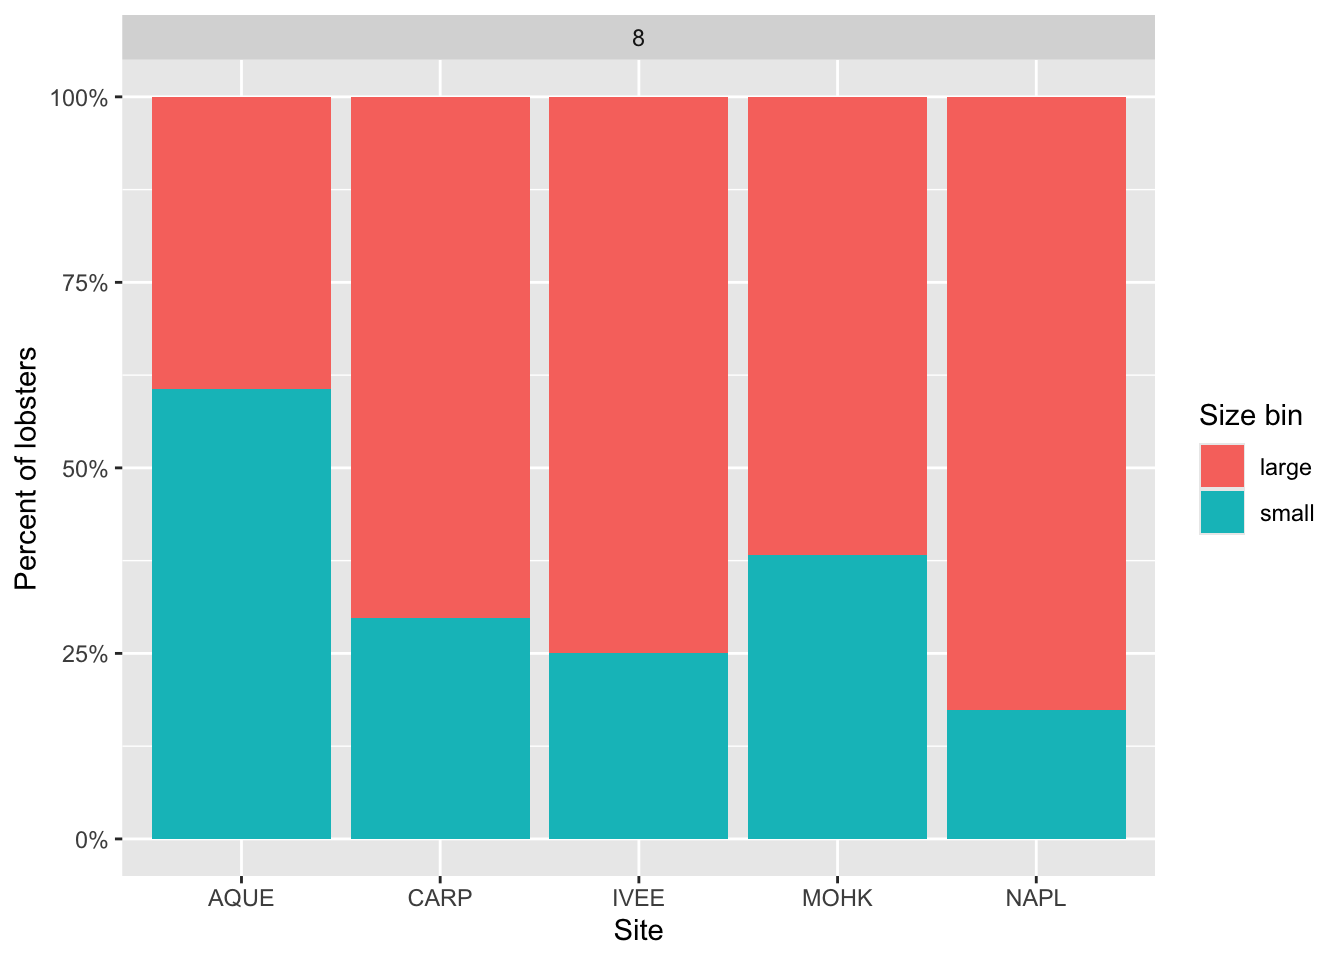
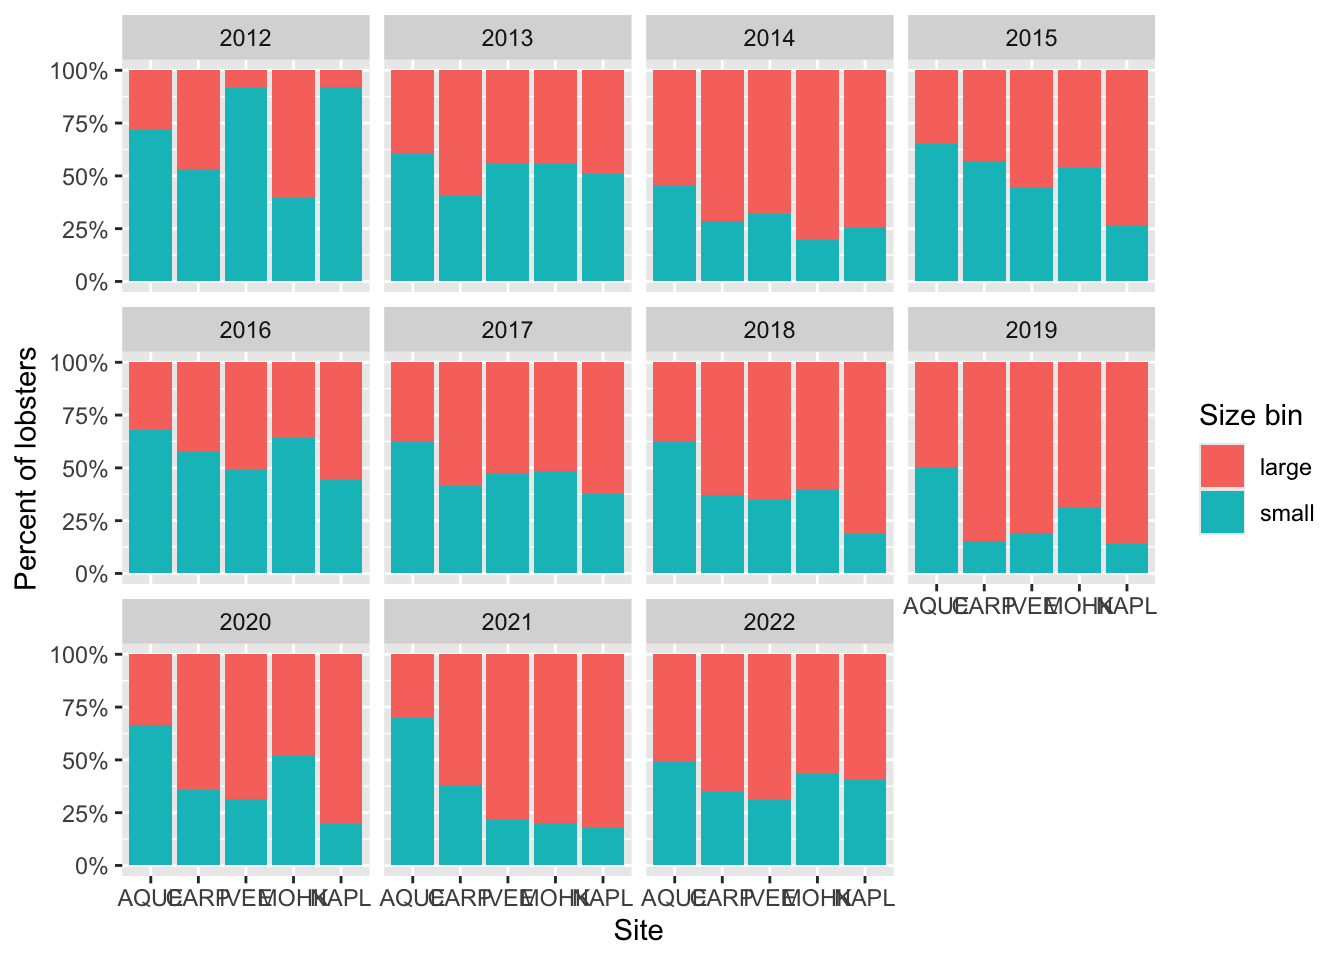
add new graphs

diff --git a/analysis/lobster-report.html b/analysis/lobster-report.html
@@ -87,7 +87,7 @@ pre > code.sourceCode > span > a:first-child::before { text-decoration: underlin
   <ul>
   <li><a href="#purpose" id="toc-purpose" class="nav-link active" data-scroll-target="#purpose">Purpose</a></li>
   <li><a href="#data-clean-up-quality-control" id="toc-data-clean-up-quality-control" class="nav-link" data-scroll-target="#data-clean-up-quality-control">Data clean up &amp; quality control</a></li>
-  <li><a href="#data-analysis" id="toc-data-analysis" class="nav-link" data-scroll-target="#data-analysis">Data analysis</a></li>
+  <li><a href="#data-analysis-for-abundance" id="toc-data-analysis-for-abundance" class="nav-link" data-scroll-target="#data-analysis-for-abundance">Data analysis for Abundance</a></li>
   </ul>
 </nav>
 </div>
@@ -171,8 +171,8 @@ date (1): DATE
 </div>
 </div>
 </section>
-<section id="data-analysis" class="level2">
-<h2 class="anchored" data-anchor-id="data-analysis">Data analysis</h2>
+<section id="data-analysis-for-abundance" class="level2">
+<h2 class="anchored" data-anchor-id="data-analysis-for-abundance">Data analysis for Abundance</h2>
 <p>I would like to visualize the percentage of all caught lobster based on size:</p>
 <div class="cell">
 <div class="code-copy-outer-scaffold"><div class="sourceCode cell-code" id="cb9"><pre class="sourceCode r code-with-copy"><code class="sourceCode r"><span id="cb9-1"><a href="#cb9-1" aria-hidden="true" tabindex="-1"></a><span class="co">#First identify our lobster classifications</span></span>
@@ -203,19 +203,21 @@ date (1): DATE
 <pre><code>Saving 7 x 5 in image</code></pre>
 </div>
 </div>
-<p>I would also like to view this same data by month. To do this, i would first need to refilter my object by month.<br>
+<p>I would also like to view this same data by year. To do this, i would first need to refilter my object by year.<br>
 </p>
 <div class="cell">
-<div class="code-copy-outer-scaffold"><div class="sourceCode cell-code" id="cb14"><pre class="sourceCode r code-with-copy"><code class="sourceCode r"><span id="cb14-1"><a href="#cb14-1" aria-hidden="true" tabindex="-1"></a><span class="co">#Filter by size and month</span></span>
-<span id="cb14-2"><a href="#cb14-2" aria-hidden="true" tabindex="-1"></a>lobster_size_lrg_month <span class="ot">&lt;-</span> lobster_abundance <span class="sc">%&gt;%</span> <span class="fu">filter</span>(YEAR <span class="sc">%in%</span> <span class="fu">c</span>(<span class="dv">2019</span>, <span class="dv">2020</span>, <span class="dv">2021</span>)) <span class="sc">%&gt;%</span> <span class="fu">mutate</span>(<span class="at">SIZE_BIN =</span> <span class="fu">if_else</span>(SIZE_MM <span class="sc">&lt;=</span> <span class="dv">70</span>, <span class="st">"small"</span>, <span class="st">"large"</span>),<span class="at">MONTH =</span> <span class="fu">factor</span>(MONTH)) <span class="sc">%&gt;%</span></span>
-<span id="cb14-3"><a href="#cb14-3" aria-hidden="true" tabindex="-1"></a>  <span class="fu">group_by</span>(SITE, MONTH, SIZE_BIN) <span class="sc">%&gt;%</span></span>
-<span id="cb14-4"><a href="#cb14-4" aria-hidden="true" tabindex="-1"></a>  <span class="fu">summarize</span>(<span class="at">COUNT =</span> <span class="fu">n</span>(), <span class="at">.groups =</span> <span class="st">"drop"</span>) <span class="sc">%&gt;%</span></span>
-<span id="cb14-5"><a href="#cb14-5" aria-hidden="true" tabindex="-1"></a>  <span class="fu">drop_na</span>()</span>
-<span id="cb14-6"><a href="#cb14-6" aria-hidden="true" tabindex="-1"></a><span class="fu">ggplot</span>(lobster_size_lrg_month, <span class="fu">aes</span>(<span class="at">x =</span> SITE, <span class="at">y =</span> COUNT, <span class="at">fill =</span> SIZE_BIN)) <span class="sc">+</span></span>
-<span id="cb14-7"><a href="#cb14-7" aria-hidden="true" tabindex="-1"></a>  <span class="fu">geom_col</span>(<span class="at">position =</span> <span class="st">"fill"</span>) <span class="sc">+</span></span>
-<span id="cb14-8"><a href="#cb14-8" aria-hidden="true" tabindex="-1"></a>  <span class="fu">facet_wrap</span>(<span class="sc">~</span> MONTH) <span class="sc">+</span></span>
-<span id="cb14-9"><a href="#cb14-9" aria-hidden="true" tabindex="-1"></a>  <span class="fu">scale_y_continuous</span>(<span class="at">labels =</span> scales<span class="sc">::</span>percent) <span class="sc">+</span></span>
-<span id="cb14-10"><a href="#cb14-10" aria-hidden="true" tabindex="-1"></a>  <span class="fu">labs</span>(<span class="at">x =</span> <span class="st">"Site"</span>,<span class="at">y =</span> <span class="st">"Percent of lobsters"</span>,<span class="at">fill =</span> <span class="st">"Size bin"</span>)</span></code></pre></div><button title="Copy to Clipboard" class="code-copy-button"><i class="bi"></i></button></div>
+<div class="code-copy-outer-scaffold"><div class="sourceCode cell-code" id="cb14"><pre class="sourceCode r code-with-copy"><code class="sourceCode r"><span id="cb14-1"><a href="#cb14-1" aria-hidden="true" tabindex="-1"></a><span class="co">#Filter by size and year</span></span>
+<span id="cb14-2"><a href="#cb14-2" aria-hidden="true" tabindex="-1"></a>lobster_size_lrg_year <span class="ot">&lt;-</span> lobster_abundance <span class="sc">%&gt;%</span></span>
+<span id="cb14-3"><a href="#cb14-3" aria-hidden="true" tabindex="-1"></a>  <span class="fu">filter</span>(YEAR <span class="sc">%in%</span> <span class="dv">2012</span><span class="sc">:</span><span class="dv">2022</span>) <span class="sc">%&gt;%</span></span>
+<span id="cb14-4"><a href="#cb14-4" aria-hidden="true" tabindex="-1"></a>  <span class="fu">mutate</span>(<span class="at">SIZE_BIN =</span> <span class="fu">if_else</span>(SIZE_MM <span class="sc">&lt;=</span> <span class="dv">70</span>, <span class="st">"small"</span>, <span class="st">"large"</span>),<span class="at">YEAR =</span> <span class="fu">factor</span>(YEAR)) <span class="sc">%&gt;%</span><span class="fu">group_by</span>(YEAR, SITE, SIZE_BIN) <span class="sc">%&gt;%</span><span class="fu">summarize</span>(<span class="at">COUNT =</span> <span class="fu">n</span>(), <span class="at">.groups =</span> <span class="st">"drop"</span>) <span class="sc">%&gt;%</span><span class="fu">drop_na</span>()</span>
+<span id="cb14-5"><a href="#cb14-5" aria-hidden="true" tabindex="-1"></a></span>
+<span id="cb14-6"><a href="#cb14-6" aria-hidden="true" tabindex="-1"></a><span class="co">#plot it</span></span>
+<span id="cb14-7"><a href="#cb14-7" aria-hidden="true" tabindex="-1"></a><span class="fu">ggplot</span>(lobster_size_lrg_year,</span>
+<span id="cb14-8"><a href="#cb14-8" aria-hidden="true" tabindex="-1"></a>       <span class="fu">aes</span>(<span class="at">x =</span> SITE, <span class="at">y =</span> COUNT, <span class="at">fill =</span> SIZE_BIN)) <span class="sc">+</span></span>
+<span id="cb14-9"><a href="#cb14-9" aria-hidden="true" tabindex="-1"></a>  <span class="fu">geom_col</span>(<span class="at">position =</span> <span class="st">"fill"</span>) <span class="sc">+</span></span>
+<span id="cb14-10"><a href="#cb14-10" aria-hidden="true" tabindex="-1"></a>  <span class="fu">facet_wrap</span>(<span class="sc">~</span> YEAR) <span class="sc">+</span></span>
+<span id="cb14-11"><a href="#cb14-11" aria-hidden="true" tabindex="-1"></a>  <span class="fu">scale_y_continuous</span>(<span class="at">labels =</span> scales<span class="sc">::</span>percent) <span class="sc">+</span></span>
+<span id="cb14-12"><a href="#cb14-12" aria-hidden="true" tabindex="-1"></a>  <span class="fu">labs</span>(<span class="at">x =</span> <span class="st">"Site"</span>,<span class="at">y =</span> <span class="st">"Percent of lobsters"</span>,<span class="at">fill =</span> <span class="st">"Size bin"</span>)</span></code></pre></div><button title="Copy to Clipboard" class="code-copy-button"><i class="bi"></i></button></div>
 <div class="cell-output-display">
 <div>
 <figure class="figure">
@@ -223,11 +225,12 @@ date (1): DATE
 </figure>
 </div>
 </div>
-<div class="code-copy-outer-scaffold"><div class="sourceCode cell-code" id="cb15"><pre class="sourceCode r code-with-copy"><code class="sourceCode r"><span id="cb15-1"><a href="#cb15-1" aria-hidden="true" tabindex="-1"></a><span class="fu">ggsave</span>(here<span class="sc">::</span><span class="fu">here</span>(<span class="st">"figs/total_lobsterbymonth.png"</span>))</span></code></pre></div><button title="Copy to Clipboard" class="code-copy-button"><i class="bi"></i></button></div>
+<div class="code-copy-outer-scaffold"><div class="sourceCode cell-code" id="cb15"><pre class="sourceCode r code-with-copy"><code class="sourceCode r"><span id="cb15-1"><a href="#cb15-1" aria-hidden="true" tabindex="-1"></a><span class="fu">ggsave</span>(here<span class="sc">::</span><span class="fu">here</span>(<span class="st">"figs/total_lobsterbyyear.png"</span>))</span></code></pre></div><button title="Copy to Clipboard" class="code-copy-button"><i class="bi"></i></button></div>
 <div class="cell-output cell-output-stderr">
 <pre><code>Saving 7 x 5 in image</code></pre>
 </div>
 </div>
+<p>lobster_abundance %&gt;% filter(YEAR %in% c(2019, 2020, 2021)) %&gt;% count(MONTH)</p>
 </section>
 
 </main>
